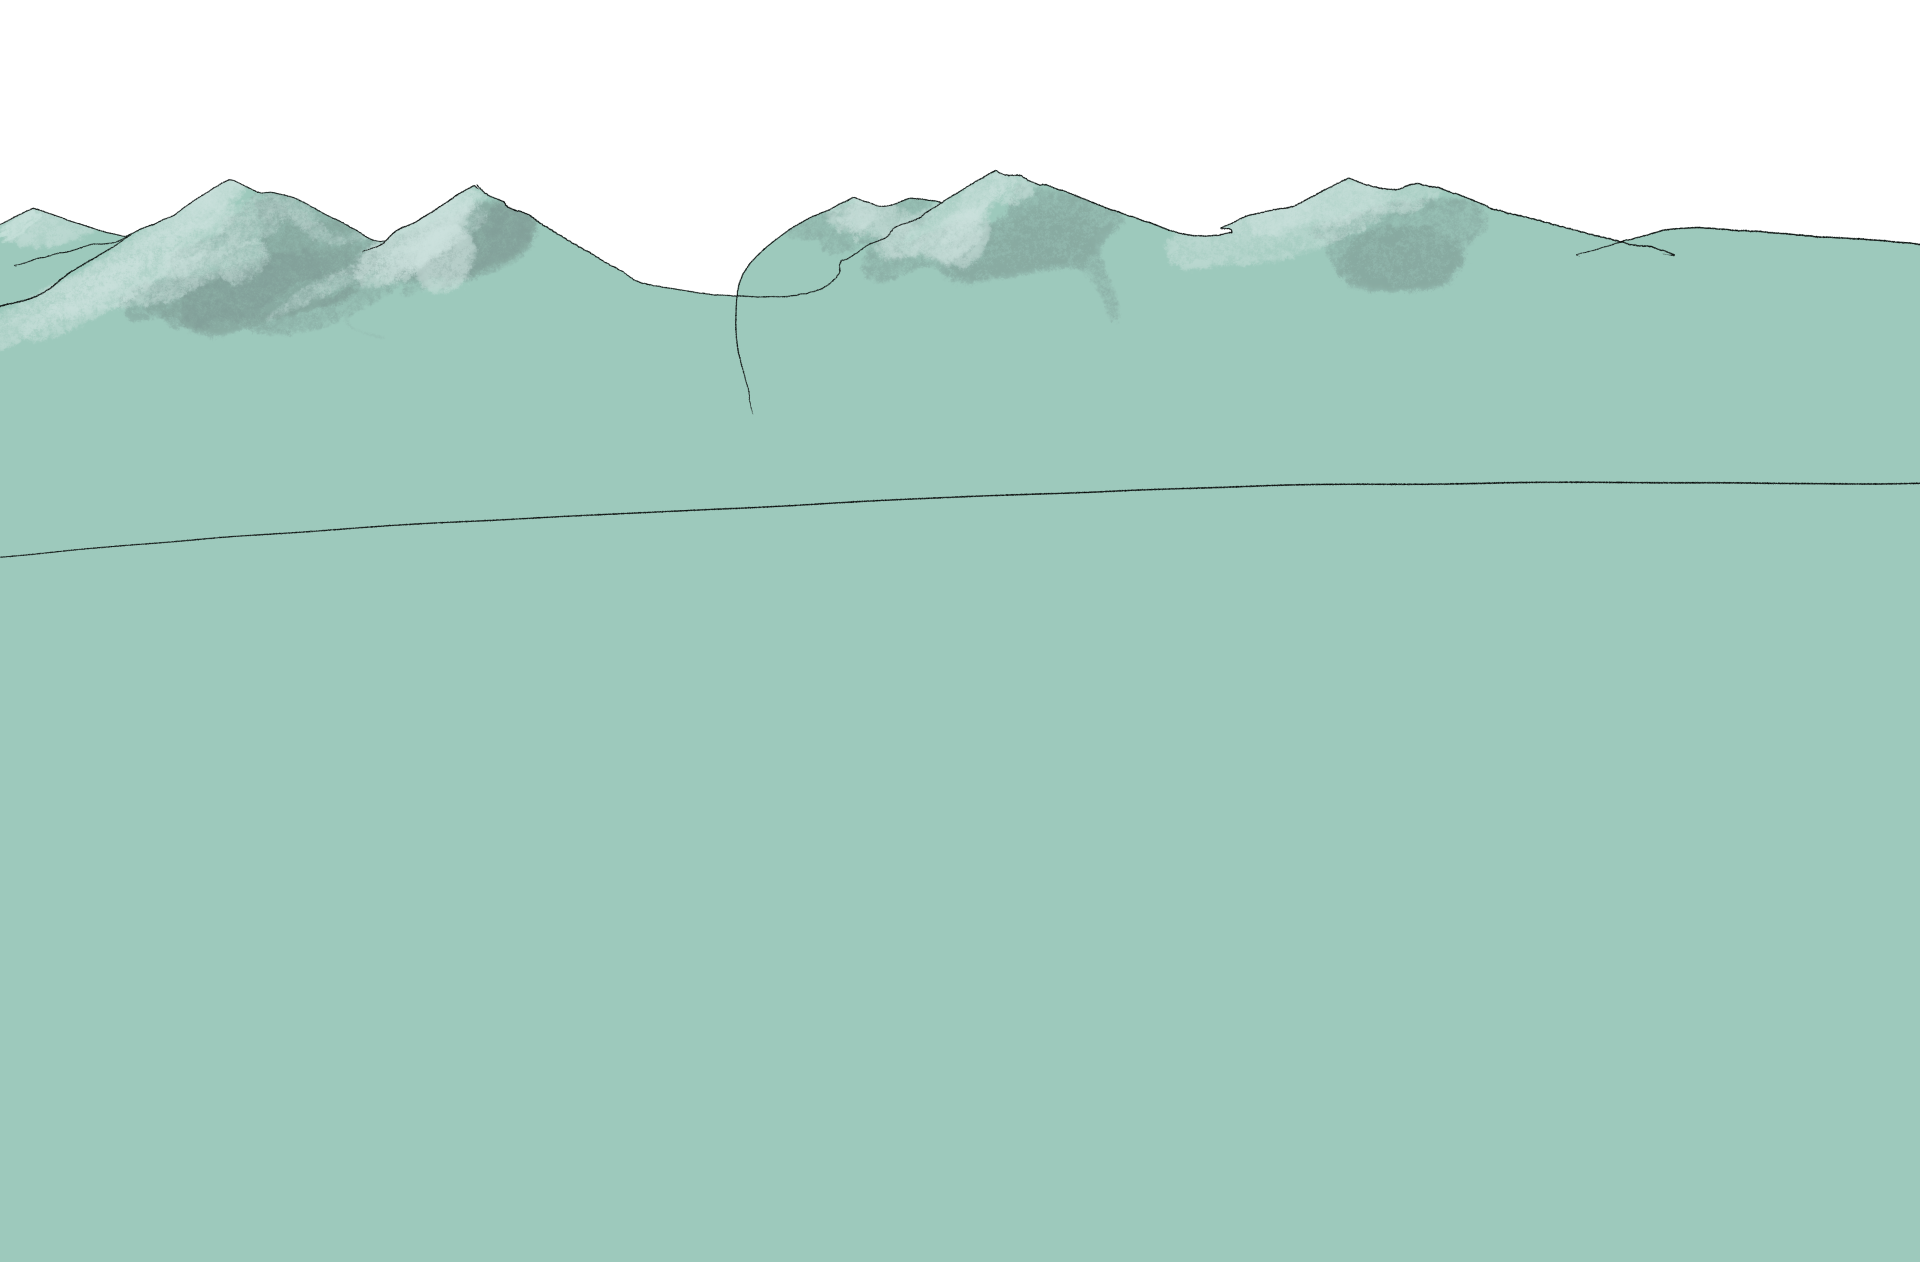
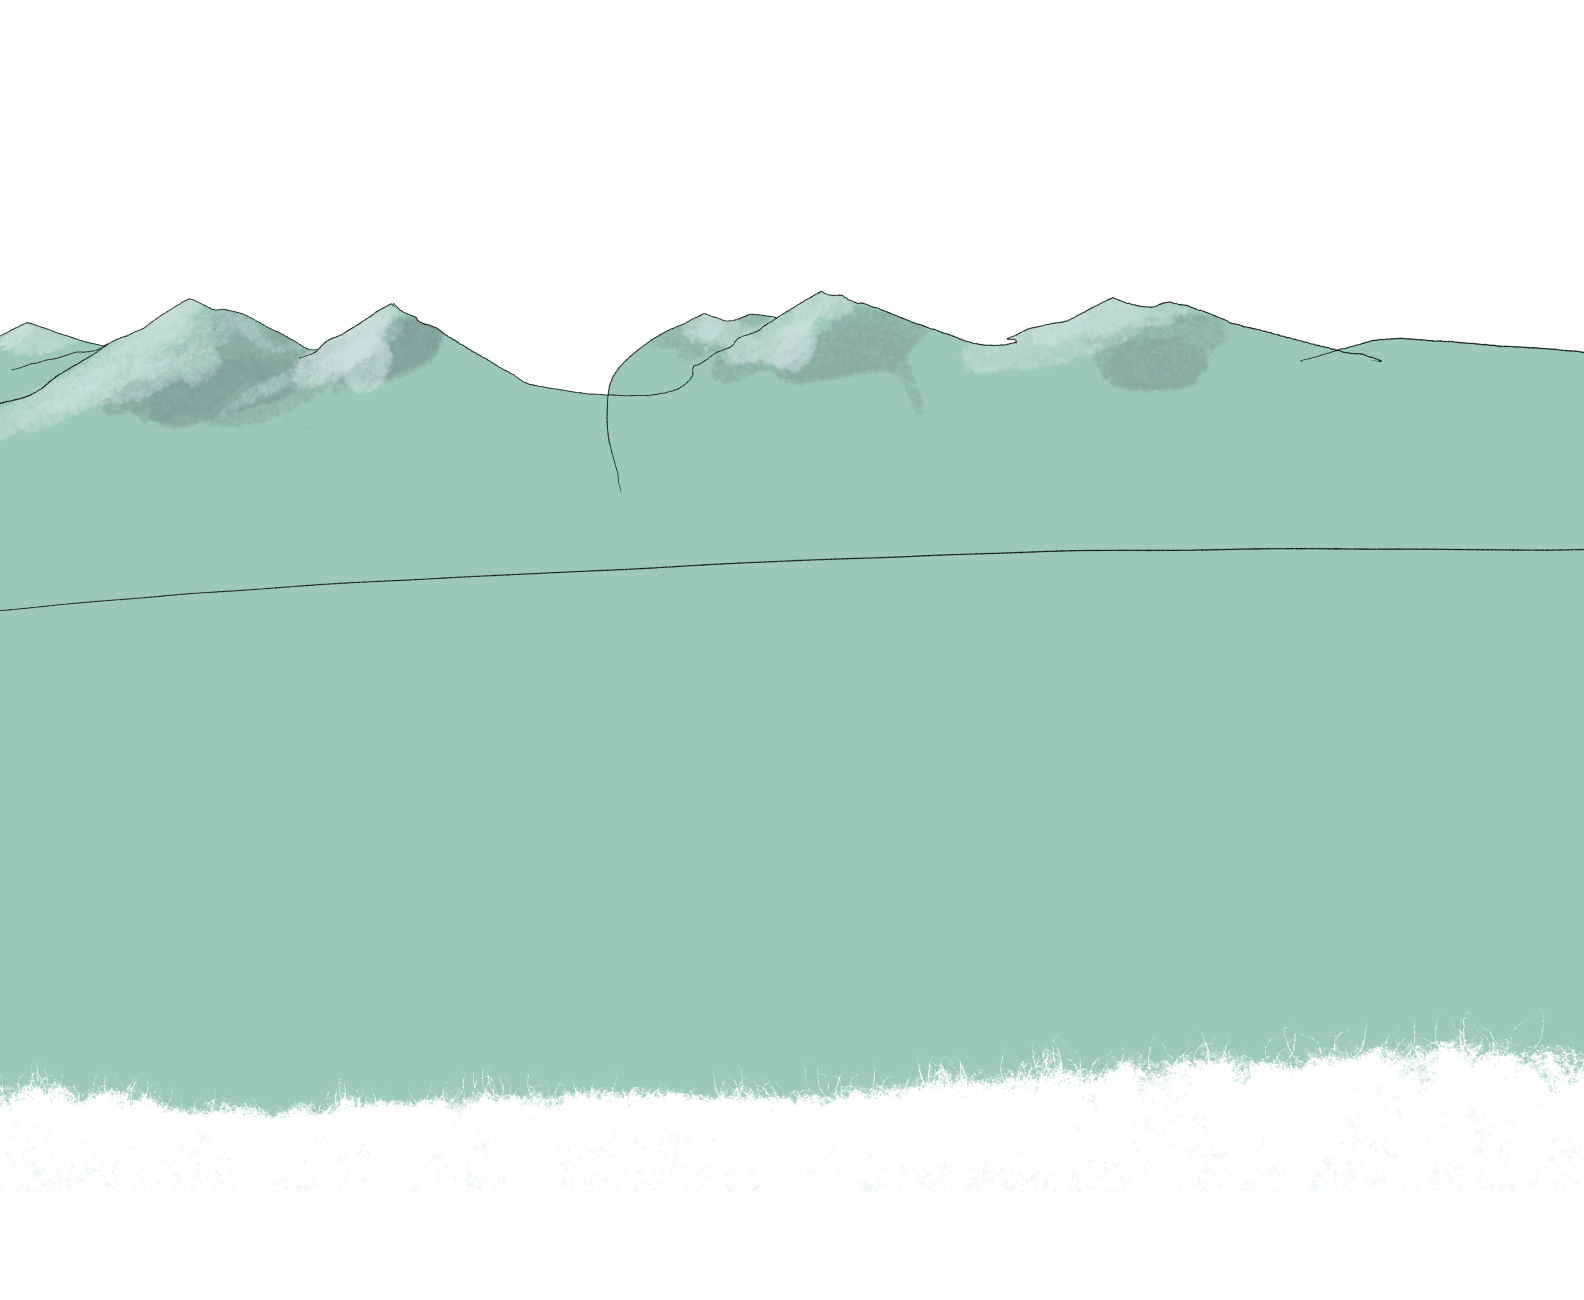
Sow some grass at the bottom of the page for nicer transition

Changed region(s): [[0.0, 0.7726, 1.0, 1.0], [0.0, 0.1236, 1.0, 0.3399]]

diff --git a/src/routes/+page.svelte b/src/routes/+page.svelte
@@ -1,39 +1,39 @@
 <script lang="ts">
-	import { onMount } from "svelte";
+	import { onMount } from 'svelte';
 
 	let width = $state(1920);
 	let height = $state(1080);
 	let scroll = $state(0);
 
-	onMount(() => {
-		// give the browser a tick to render
-		setTimeout(() => {
-			requestAnimationFrame(() => {
-				window.scrollTo({
-					top: window.innerHeight * 0.2, // for example, 80% down
-					behavior: 'smooth'
-				});
-			});
-		}, 1000);
-	});
+	// onMount(() => {
+	// 	// give the browser a tick to render
+	// 	setTimeout(() => {
+	// 		requestAnimationFrame(() => {
+	// 			window.scrollTo({
+	// 				top: window.innerHeight * 0.2, // for example, 80% down
+	// 				behavior: 'smooth'
+	// 			});
+	// 		});
+	// 	}, 1000);
+	// });
 
 	const configWidth = 1920;
 	const configHeight = 1262;
 	const configAspectRatio = $derived(configWidth / configHeight);
 
-    const landscape = $derived(width > height);
+	const landscape = $derived(width > height);
 
 	const parallaxHeight = $derived(landscape ? width / configAspectRatio : height);
-    const parallaxWidth = $derived(landscape ? width : height * configAspectRatio);
+	const parallaxWidth = $derived(landscape ? width : height * configAspectRatio);
 
-	const aw_shit = $derived(scroll / height > 0.6);
+	const aw_shit = $derived(scroll / height > 0.5);
 
 	const moo_start: [number, number] = $derived([-5, 20]);
 	const moo_end: [number, number] = $derived([65, -130]);
 	const my_planet_needs_me = $derived(scroll / height);
 
 	function Lerp(from: number, to: number, t: number): number {
-        return (1 - t) * from + t * to;
+		return (1 - t) * from + t * to;
 	}
 
 	function Lerp2D(from: [number, number], to: [number, number], t: number): [number, number] {
@@ -45,7 +45,8 @@
 		'near_mountains.png': { offset: [0, 0], max: [0, 0], speed: 0.9, visible: true, scale: 1.0 },
 		'trees.png': { offset: [0, 0], max: [0, 0], speed: 0.8, visible: true, scale: 1.0 },
 		'moo.png': { offset: moo_start, max: [0, 0], speed: 0.7, visible: true, scale: 1.0 },
-		'wtf.png': { offset: [0, 0], max: [0, 0], speed: 0.7, visible: true, scale: 1.0 },
+		'mukice.png': { offset: [0, 0], max: [0, 0], speed: 0.7, visible: true, scale: 1.0 },
+		'ufo.png': { offset: [0, 0], max: [0, 0], speed: 0.7, visible: true, scale: 1.0 },
 		'barn.png': { offset: [0, 0], max: [0, 0], speed: 0.6, visible: true, scale: 1.0 },
 		'far_field.png': { offset: [0, 0], max: [0, 0], speed: 0.5, visible: true, scale: 1.0 },
 		'near_field.png': { offset: [0, 0], max: [0, 0], speed: 0.4, visible: true, scale: 1.0 },
@@ -53,7 +54,9 @@
 		'goldy.png': { offset: [0, 0], max: [0, 0], speed: 0.2, visible: true, scale: 1.0 },
 		'hen.png': { offset: [0, 0], max: [0, 0], speed: 0.1, visible: true, scale: 1.0 },
 		'aw_shit.png': { offset: [0, 0], max: [0, 0], speed: 0.1, visible: false, scale: 1.0 },
-		'bottom.png': { offset: [0, 200], max: [0, 10], speed: -0.4, visible: true, scale: 1.0 }
+		'bottom.png': { offset: [0, 350], max: [0, 150], speed: -0.4, visible: true, scale: 1.0 },
+		'aw_my_gawd.png': { offset: [0,0], max: [0, 0], speed: 0.1, visible: true, scale: 1.0 },
+		'leaves.png': { offset: [0, 0], max: [0, 0], speed: 0.1, visible: true, scale: 1.0 }
 	};
 
 	$effect(() => {
@@ -84,27 +87,18 @@
 					c.offset[1] * configAspectRatio + scroll * c.speed,
 					c.max[1]
 				)}px)"
-				style:scale={c.scale}
+				style:transform="translateY(100px)"
 				style:z-index={i}
 			></div>
 		{/each}
 	</div>
-	<div
-		class="parallax-layer"
-		style:background-image="url('./images/aw_my_gawd.png')"
-		style:height="100%"
-		style:z-index="14"
-		style:top="50vh"
-	></div>
-
 	<img
 		class="title"
 		src="./images/logo.webp"
 		alt="depicts the official GoldenHorn logo of a black goat with long curved golden horns"
 		style:top="calc(20vh + {scroll * 0.6}px)"
 	/>
-
-	<div class="info">info</div>
+	<div class="info"></div>
 </main>
 
 <style>
@@ -117,7 +111,6 @@
 		align-content: center;
 		justify-content: center;
 		flex-direction: column;
-		background-color: rgb(160, 233, 241);
 	}
 
 	.title {
@@ -130,9 +123,9 @@
 
 	.parallax {
 		width: 100%;
-		height: 140vh;
 		position: relative;
-		overflow: hidden;
+        overflow: hidden;
+        
 	}
 
 	.sky {
@@ -154,10 +147,15 @@
 		background-color: rgb(68, 51, 27);
 		width: 100%;
 		min-height: 100vh;
-		z-index: 13;
+		z-index: 10;
 	}
 
-	@media (min-width: 1921px) {
+    @media (min-width: 1921px) {
+        .parallax {
+            height: 185vh;
+            margin-bottom: -30vh;
+        }
+
 		.parallax-layer {
 			background-position: center top;
 		}
@@ -167,8 +165,13 @@
 		}
 	}
 	@media (max-width: 1920px) {
+        .parallax {
+            height: 185vh;
+            margin-bottom: -30vh;
+        }
+
 		.parallax-layer {
-			background-position: center top;
+			background-position-x: center;
 		}
 
 		.title {
@@ -176,8 +179,13 @@
 		}
 	}
 	@media (max-width: 1280px) {
+        .parallax {
+            height: 185vh;
+            margin-bottom: -50vh;
+        }
+
 		.parallax-layer {
-			background-position: 35% center;
+			background-position-x: 35%;
 		}
 
 		.title {
@@ -185,12 +193,18 @@
 		}
 	}
 	@media (max-width: 480px) {
+        .parallax {
+            height: 185vh;
+            margin-bottom: -50vh;
+        }
+
 		.parallax-layer {
-			background-position: 30% center;
+			background-position-x: 30%;
 		}
 
 		.title {
 			font-size: 3rem;
 		}
 	}
+
 </style>
